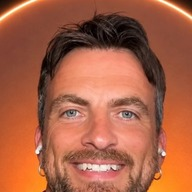
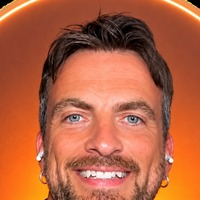
Use the transparent-background photo, sized down to fit the bio

diff --git a/home-content.html b/home-content.html
@@ -60,7 +60,7 @@ a:focus-visible,button:focus-visible{outline:2px solid var(--sky);outline-offset
 .footband-about{font-size:.85rem;color:var(--muted);line-height:1.65;max-width:46ch}
 .footband-about b{color:var(--ink);font-weight:800}
 .bio-row{display:flex;align-items:flex-start;gap:.9rem}
-.bio-avatar{width:48px;height:48px;border-radius:50%;object-fit:cover;border:1.5px solid var(--border);box-shadow:var(--shadow-sm);flex-shrink:0;margin-top:.15rem}
+.bio-avatar{width:40px;height:40px;border-radius:50%;object-fit:cover;border:1.5px solid var(--border);box-shadow:var(--shadow-sm);flex-shrink:0;margin-top:.2rem}
 .footband-contact{display:flex;gap:.6rem;flex-wrap:wrap;flex-shrink:0}
 .contact-chip{display:inline-flex;align-items:center;gap:.5rem;font-size:.82rem;font-weight:600;color:var(--ink);text-decoration:none;padding:.55rem 1rem;border:1.5px solid var(--border);border-radius:10px;background:var(--card);transition:all .2s}
 .contact-chip:hover{border-color:var(--sky);color:var(--sky);transform:translateY(-2px);box-shadow:0 4px 12px rgba(74,144,217,.1)}
